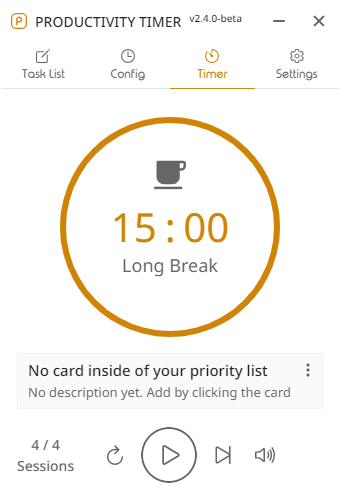
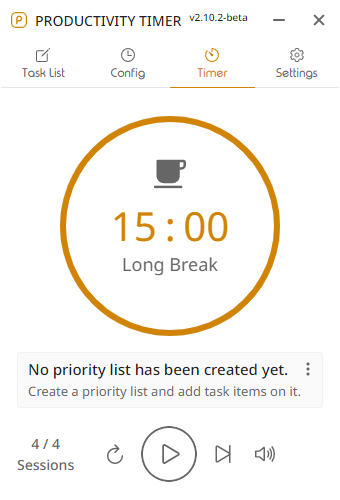
refactor: update app assets and app version to download by the visitors

diff --git a/src/components/SVG.tsx b/src/components/SVG.tsx
@@ -24,6 +24,7 @@ import SnapStoreSVG from "assets/icons/snap-store.svg";
 import TuxSVG from "assets/icons/tux.svg";
 import ArrowBackSVG from "assets/icons/arrow-back.svg";
 import AutoUpdateSVG from "assets/icons/auto-update.svg";
+import ExitSVG from "assets/icons/exit.svg";
 
 type Props = {
   name?: string;
@@ -81,6 +82,8 @@ const SVG: React.FC<Props> = ({ name }) => {
       return <ArrowBackSVG />;
     case "auto-update":
       return <AutoUpdateSVG />;
+    case "exit":
+      return <ExitSVG />;
     default:
       return <GithubSVG />;
   }

diff --git a/src/configurations/contants.ts b/src/configurations/contants.ts
@@ -1,4 +1,4 @@
-export const APP_VERSION = "2.10.0-beta";
+export const APP_VERSION = "v2.10.4-beta";
 
 export const REPO_LINK =
   "https://github.com/roldanjrCodeArts9711/productivity-timer/releases/latest/download";

diff --git a/contents/features/index.md b/contents/features/index.md
@@ -35,6 +35,10 @@ featureList:
     heading: Special Breaks
     description: If enabled, the user will be allowed to set some special time when the user really need to take a break.
 
+  - icon: exit
+    heading: Close to Tray
+    description: The app will create a system tray icon with a context menu when the app is being hide or closed.
+
   - icon: keypad
     heading: Keyboard Shortcuts
     description: Provide some useful keyboard shortcuts allowing the user to use the app conveniently.
